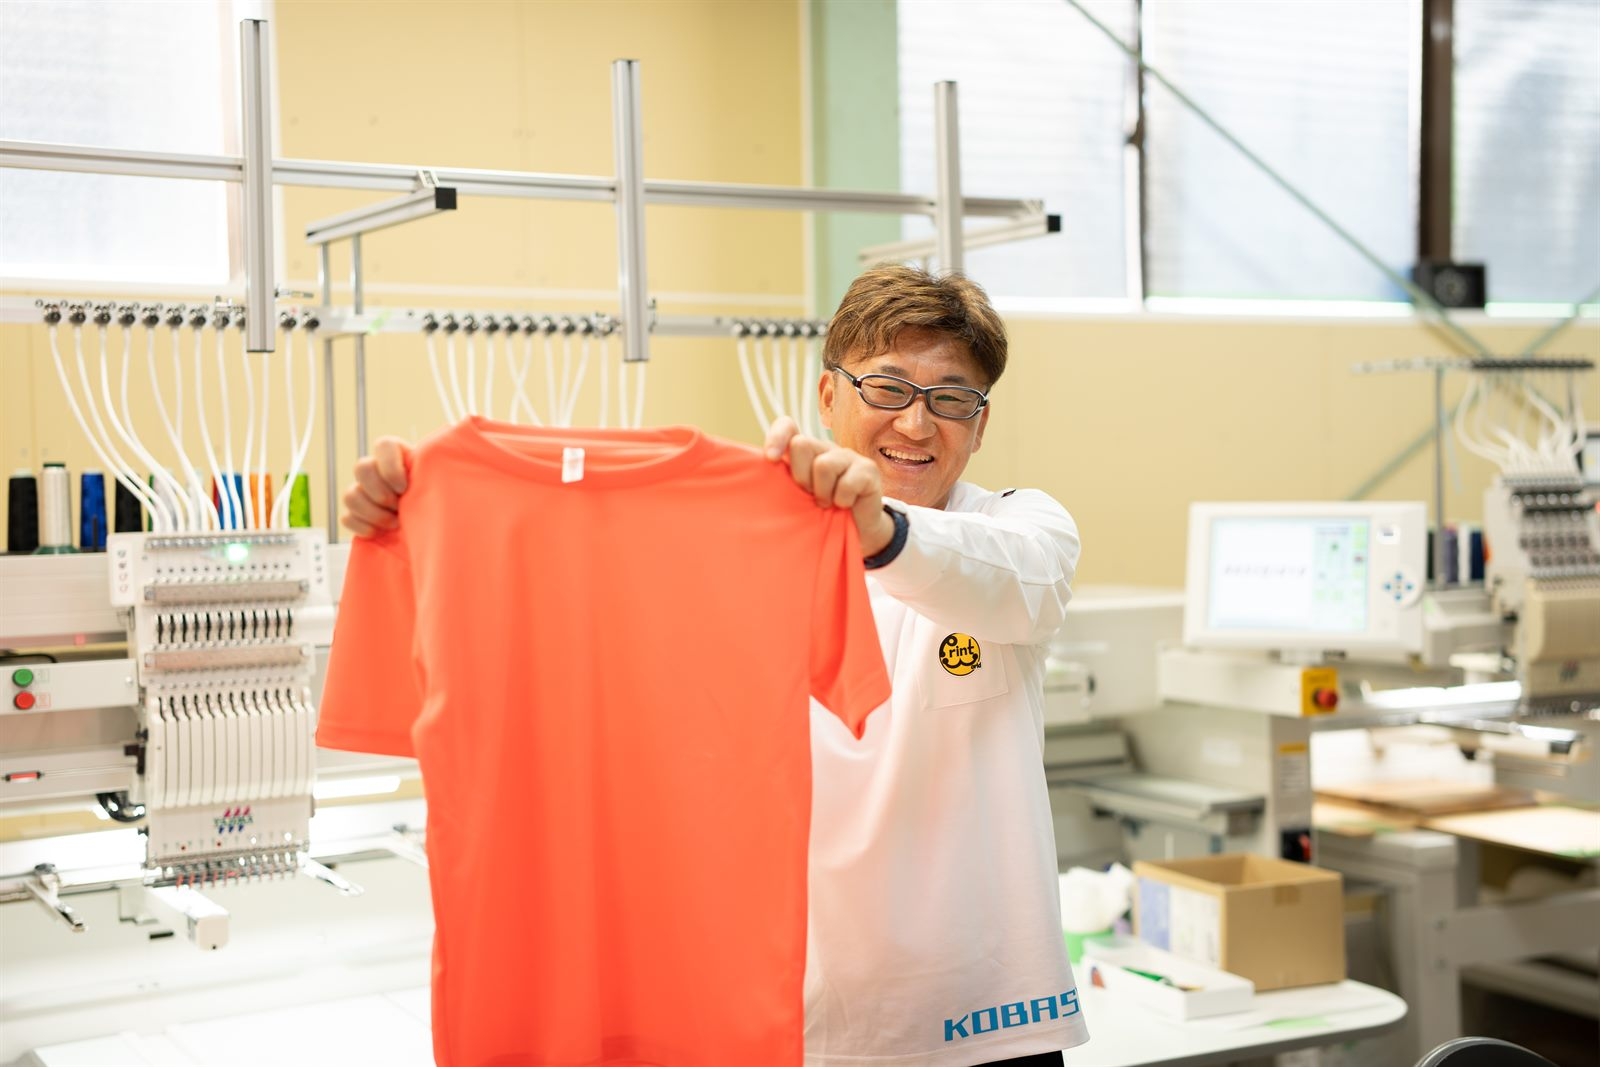
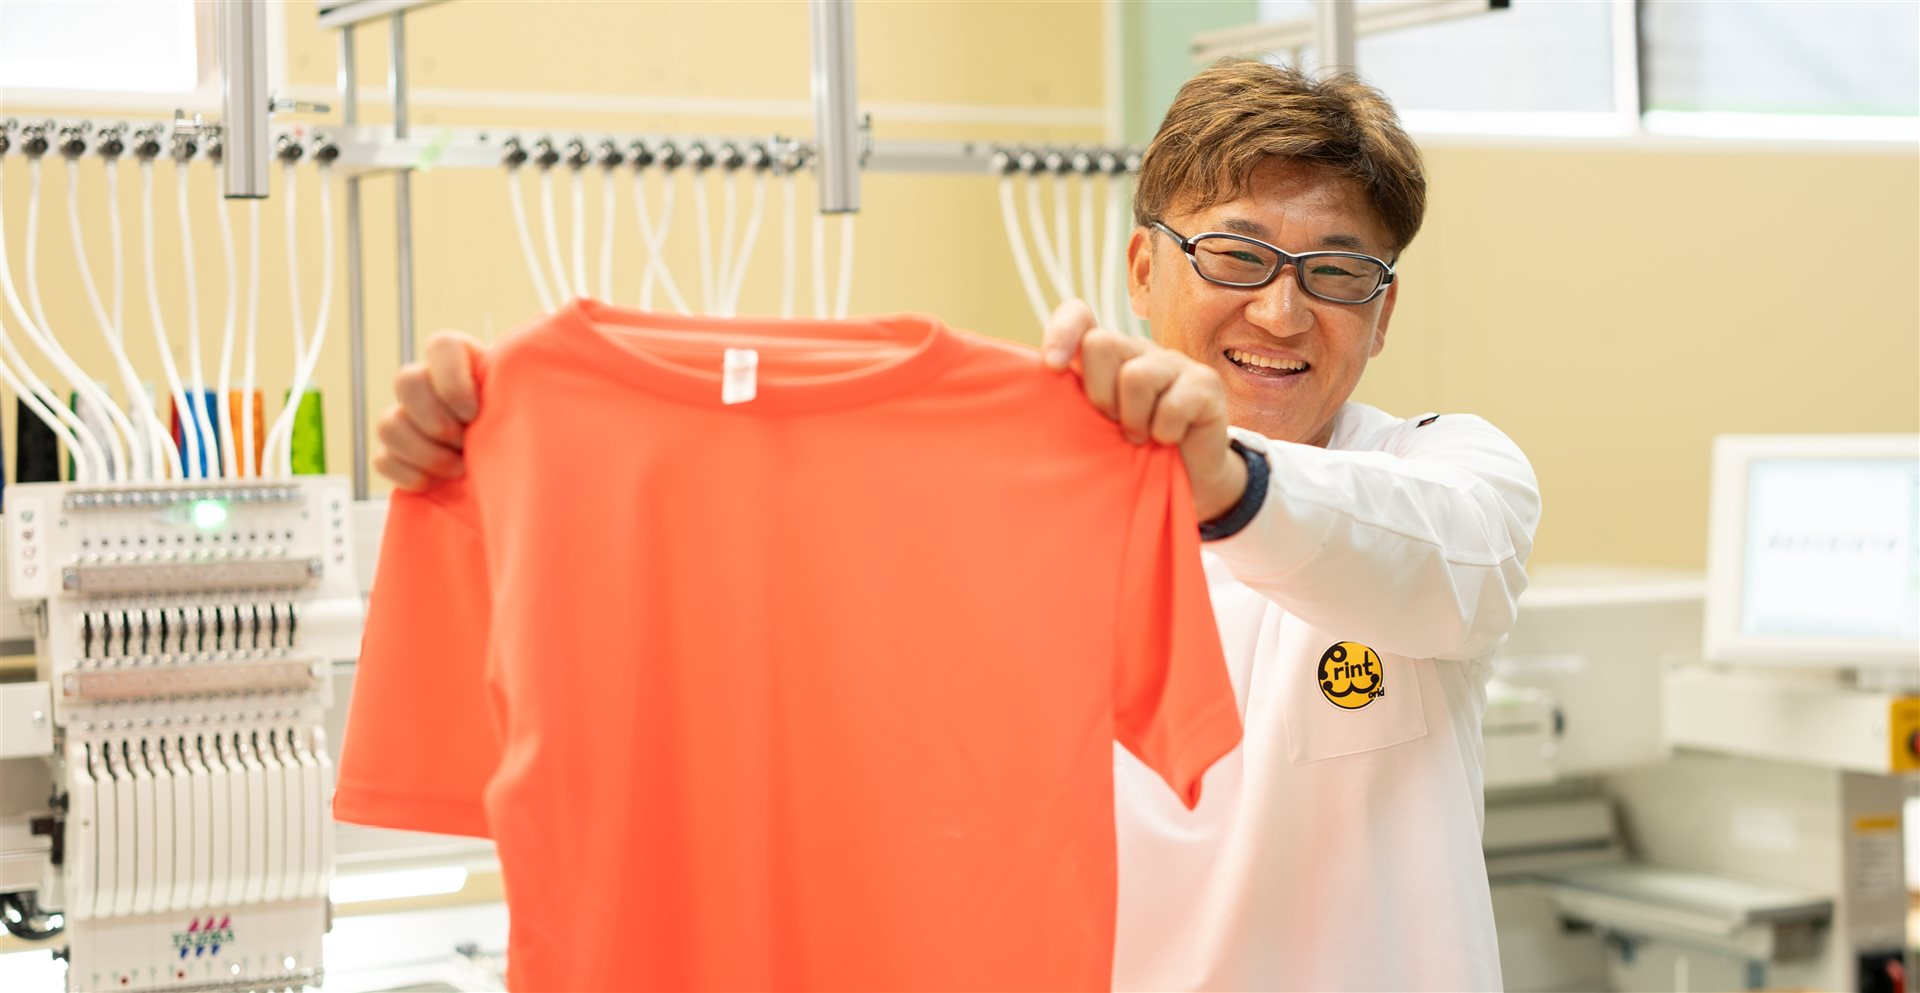
Replace design-help sec2 photo with struggle-image-1-new

diff --git a/design-help.html b/design-help.html
@@ -89,8 +89,8 @@
             class="dh-sec2__photo"
             src="images/design-help/struggle-image-1.jpg"
             alt="オレンジのTシャツを手に笑顔のスタッフ"
-            width="1600"
-            height="1067"
+            width="1920"
+            height="993"
           />
         </div>
         <img

diff --git a/design-help.css b/design-help.css
@@ -52,9 +52,8 @@
   display: block;
   width: 100%;
   height: auto;
-  aspect-ratio: 16 / 10;
   object-fit: cover;
-  object-position: center 22%;
+  object-position: center center;
 }
 
 .dh-sec2__man {